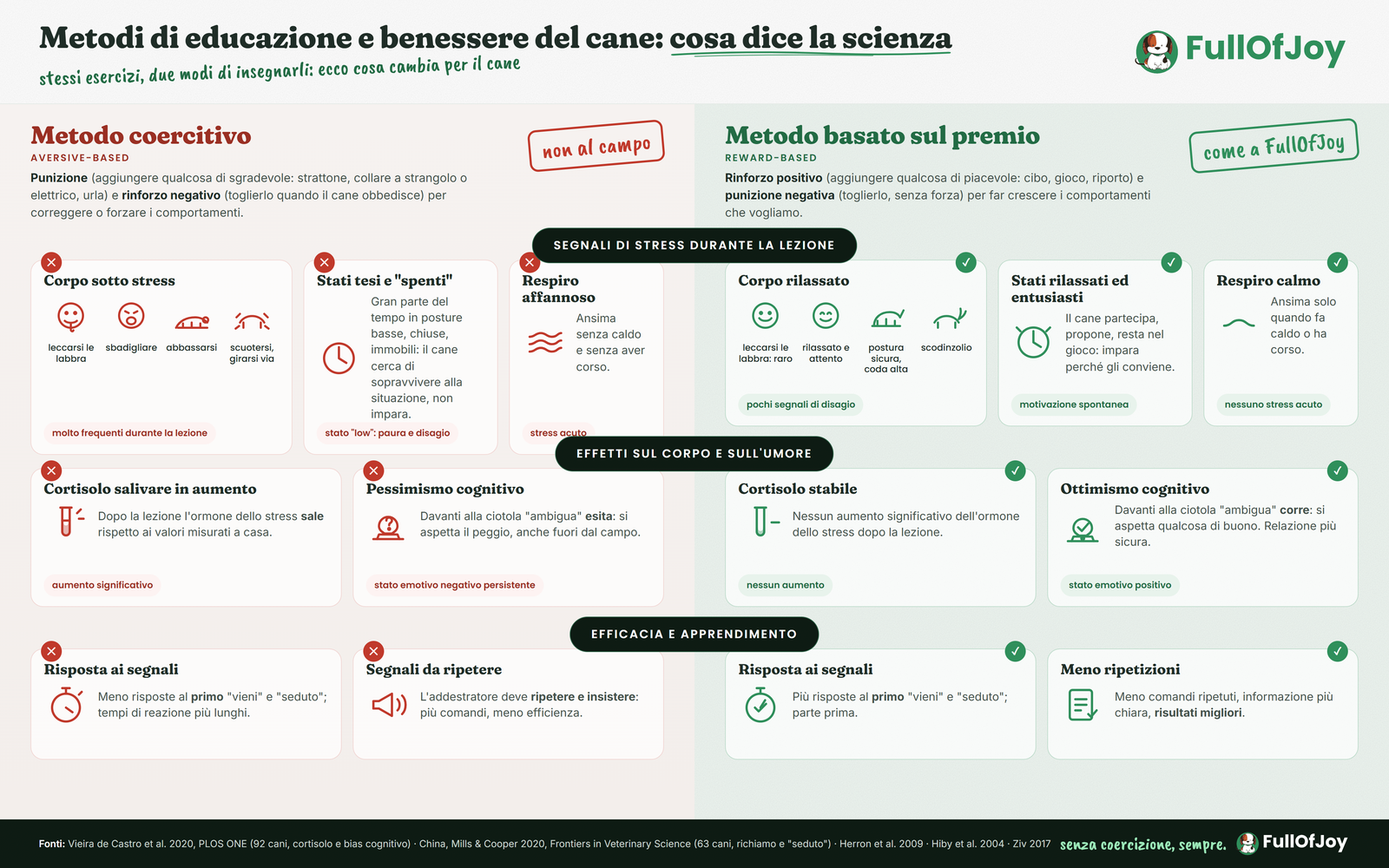
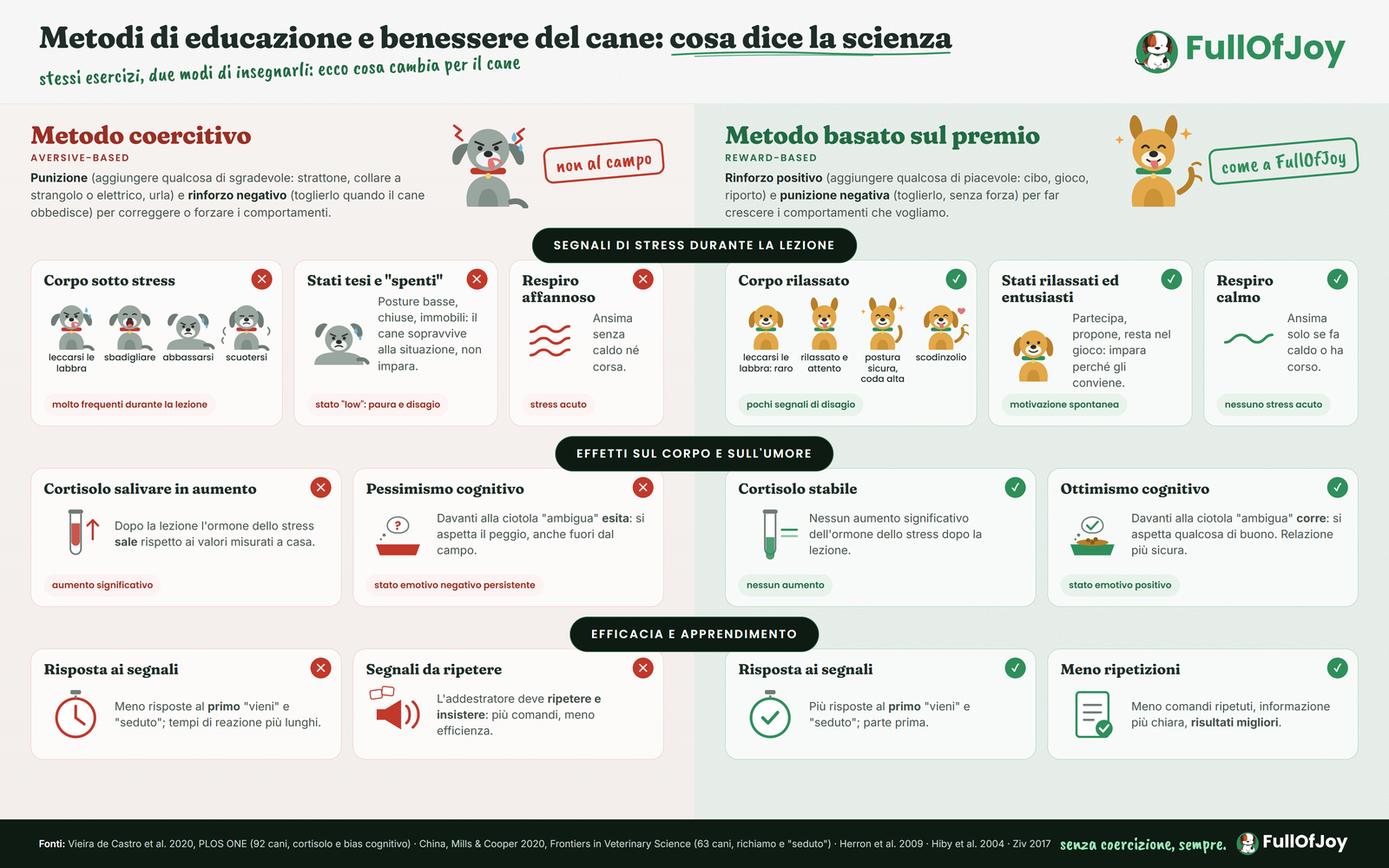
Infografica: personaggi vettoriali (cani) al posto delle icone in linea

diff --git a/_src/infografica/metodi.html b/_src/infografica/metodi.html
@@ -6,7 +6,7 @@
 <title>Infografica: metodi di educazione e benessere del cane</title>
 <link rel="stylesheet" href="../../css/style.css?v=20">
 <style>
-  /* Tavola 2000×1250 (16:10). Si esporta in PNG con puppeteer: vedi scripts nello scratchpad. */
+  /* Tavola 2000×1250 (16:10). Personaggi vettoriali generati da build_infografica_v2.py (scratchpad). Si esporta in PNG con puppeteer: vedi scripts nello scratchpad. */
   html, body { margin: 0; background: #fff; }
   .board { width: 2000px; height: 1250px; overflow: hidden; position: relative; background: var(--bg); color: var(--ink); font-family: var(--font-body); }
   .board * { box-sizing: border-box; }
@@ -22,14 +22,14 @@
   .col--no { background: linear-gradient(180deg, #f6f2f0 0%, #f3eeeb 100%); }
   .col--si { background: var(--grain), #eef6f1; }
 
-  .colhead { display: grid; grid-template-columns: 1fr auto; gap: 18px; align-items: start; min-height: 150px; }
+  .colhead { display: grid; grid-template-columns: 1fr auto; gap: 18px; align-items: start; min-height: 150px; } .colhead p { max-width: 560px; }
   .colhead h2 { margin: 0; font-size: 36px; line-height: 1.05; }
   .colhead h2 small { display: block; font-family: var(--font-head); font-weight: 600; font-size: 14px; letter-spacing: .12em; text-transform: uppercase; margin-top: 6px; }
   .col--no .colhead h2, .col--no .colhead h2 small { color: #9a2f23; }
   .col--si .colhead h2, .col--si .colhead h2 small { color: var(--green-dark); }
   .colhead p { margin: 10px 0 0; font-size: 17px; line-height: 1.45; color: var(--body); max-width: 640px; }
   .colhead p strong { color: var(--ink); }
-  .stamp { font-family: var(--font-hand); font-size: 34px; line-height: 1; transform: rotate(-5deg); padding: 10px 16px; border: 3px solid currentColor; border-radius: 12px; white-space: nowrap; margin-top: 4px; }
+  .stamp { font-family: var(--font-hand); font-size: 30px; line-height: 1; transform: rotate(-5deg); padding: 8px 14px; border: 3px solid currentColor; border-radius: 12px; white-space: nowrap; }
   .col--no .stamp { color: #c0392b; } .col--si .stamp { color: var(--green); }
 
   /* fasce di sezione al centro, sopra entrambe le colonne */
@@ -40,12 +40,12 @@
   .row { position: absolute; left: 44px; right: 44px; }
   .row--1 { top: 224px; height: 240px; } .row--2 { top: 524px; height: 200px; } .row--3 { top: 784px; height: 160px; }
   .cells { display: grid; gap: 16px; height: 100%; }
-  .cells--3 { grid-template-columns: 1.35fr 1fr .8fr; }
+  .cells--3 { grid-template-columns: 1.3fr 1.05fr .8fr; }
   .cells--2 { grid-template-columns: 1fr 1fr; }
-  .cell { background: rgba(255,255,255,.72); border: 1px solid var(--line); border-radius: 18px; padding: 16px 18px 14px; display: flex; flex-direction: column; }
+  .cell { background: rgba(255,255,255,.72); border: 1px solid var(--line); border-radius: 18px; padding: 16px 18px 14px; display: flex; flex-direction: column; overflow: hidden; }
   .col--si .cell { border-color: rgba(47,143,91,.28); }
   .col--no .cell { border-color: rgba(192,57,43,.18); }
-  .cell h3 { margin: 0 0 8px; font-size: 21px; line-height: 1.15; color: var(--ink); }
+  .cell h3 { margin: 0 0 8px; padding-right: 36px; font-size: 21px; line-height: 1.15; color: var(--ink); }
   .cell p { margin: 0; font-size: 16.5px; line-height: 1.4; color: var(--body); }
   .cell .big { font-family: var(--font-display); font-weight: 800; font-size: 30px; line-height: 1; margin: 2px 0 6px; }
   .col--no .big { color: #c0392b; } .col--si .big { color: var(--green); }
@@ -53,14 +53,14 @@
   .col--no .tag { background: #fdf3f2; color: #9a2f23; } .col--si .tag { background: var(--green-soft); color: var(--green-dark); }
 
   /* pittogrammi: righe di segnali */
-  .signs { display: grid; grid-template-columns: repeat(4, 1fr); gap: 8px; margin: 4px 0 8px; }
+  .signs { display: grid; grid-template-columns: repeat(4, 1fr); gap: 4px; margin: 2px 0 8px; }
   .sign { text-align: center; font-family: var(--font-head); font-weight: 500; font-size: 13px; line-height: 1.2; color: var(--ink); }
-  .sign svg { width: 60px; height: 60px; display: block; margin: 0 auto 6px; }
-  .ico { display: flex; align-items: center; gap: 14px; }
-  .ico svg { width: 64px; height: 64px; flex: none; }
-  .col--no svg { color: #c0392b; } .col--si svg { color: var(--green); }
-  .mark { position: absolute; top: -12px; right: 14px; width: 30px; height: 30px; border-radius: 50%; display: grid; place-items: center; font-family: var(--font-head); font-weight: 700; font-size: 15px; color: #fff; }
-  .col--no .mark { background: #c0392b; right: auto; left: 14px; } .col--si .mark { background: var(--green); }
+  .sign svg { width: 80px; height: 80px; display: block; margin: 0 auto 2px; }
+  .ico { display: flex; align-items: center; gap: 10px; }
+  .ico svg { width: 92px; height: 92px; flex: none; }
+  .colart { display: flex; flex-direction: row; align-items: flex-start; gap: 10px; } .colart > svg { width: 140px; height: 140px; margin-top: -16px; } .colart .stamp { margin-top: 30px; }
+  .mark { position: absolute; top: 12px; right: 14px; width: 30px; height: 30px; border-radius: 50%; display: grid; place-items: center; font-family: var(--font-head); font-weight: 700; font-size: 15px; color: #fff; }
+  .col--no .mark { background: #c0392b; } .col--si .mark { background: var(--green); }
   .cell { position: relative; }
 
   .foot { position: absolute; left: 0; right: 0; bottom: 0; height: 70px; background: var(--grain), var(--dark); color: #c9d6cf; display: flex; align-items: center; justify-content: space-between; padding: 0 56px; font-size: 14px; }
@@ -70,7 +70,7 @@
 </style>
 </head>
 <body>
-<div class="board">
+<div class="board"><svg width="0" height="0" style="position:absolute" aria-hidden="true"><symbol id="dog-no-lick" viewBox="0 0 120 120"><path d="M34 40c-12 0-20 10-18 22 1 5 6 6 9 2 4-8 8-16 14-22z" fill="#6f7c76"/><path d="M86 40c12 0 20 10 18 22-1 5-6 6-9 2-4-8-8-16-14-22z" fill="#6f7c76"/><path d="M34 118c-4-22 6-38 26-38s30 16 26 38z" fill="#9aa6a0"/><path d="M48 118c0-14 4-22 12-22s12 8 12 22z" fill="#6f7c76" opacity=".55"/><path d="M88 112c8-2 14 0 18 6" fill="none" stroke="#6f7c76" stroke-width="7" stroke-linecap="round"/><rect x="38" y="70" width="44" height="8" rx="4" fill="#c0392b"/><circle cx="60" cy="80" r="3.5" fill="#f5d36b"/><circle cx="60" cy="48" r="26" fill="#9aa6a0"/><ellipse cx="60" cy="59" rx="15" ry="10" fill="#fff" opacity=".85"/><ellipse cx="60" cy="53" rx="5.5" ry="4" fill="#2b2b2b"/><circle cx="50" cy="46" r="3" fill="#2b2b2b"/><circle cx="70" cy="46" r="3" fill="#2b2b2b"/><path d="M44 38l10 4M76 38l-10 4" stroke="#2b2b2b" stroke-width="2.4" stroke-linecap="round"/><path d="M60 60c-2 8 2 14 6 12 4-2 2-8-1-12z" fill="#e57373"/><path d="M62 60c6-2 12 0 14 4" fill="none" stroke="#e57373" stroke-width="3" stroke-linecap="round"/><path d="M92 26c4 6 4 10 0 12-4-2-4-6 0-12z" fill="#6bb7e8"/><path d="M100 40c3 5 3 8 0 10-3-2-3-5 0-10z" fill="#6bb7e8"/></symbol><symbol id="dog-no-yawn" viewBox="0 0 120 120"><path d="M34 40c-12 0-20 10-18 22 1 5 6 6 9 2 4-8 8-16 14-22z" fill="#6f7c76"/><path d="M86 40c12 0 20 10 18 22-1 5-6 6-9 2-4-8-8-16-14-22z" fill="#6f7c76"/><path d="M34 118c-4-22 6-38 26-38s30 16 26 38z" fill="#9aa6a0"/><path d="M48 118c0-14 4-22 12-22s12 8 12 22z" fill="#6f7c76" opacity=".55"/><path d="M88 112c8-2 14 0 18 6" fill="none" stroke="#6f7c76" stroke-width="7" stroke-linecap="round"/><rect x="38" y="70" width="44" height="8" rx="4" fill="#c0392b"/><circle cx="60" cy="80" r="3.5" fill="#f5d36b"/><circle cx="60" cy="48" r="26" fill="#9aa6a0"/><ellipse cx="60" cy="59" rx="15" ry="10" fill="#fff" opacity=".85"/><ellipse cx="60" cy="53" rx="5.5" ry="4" fill="#2b2b2b"/><path d="M46 42q4-3 8 0M66 42q4-3 8 0" fill="none" stroke="#2b2b2b" stroke-width="2.6" stroke-linecap="round"/><ellipse cx="60" cy="61" rx="8" ry="9" fill="#5a2a2a"/><ellipse cx="60" cy="66" rx="5" ry="3.5" fill="#e57373"/></symbol><symbol id="dog-no-crouch" viewBox="0 0 120 120"><path d="M34 40c-12 0-20 10-18 22 1 5 6 6 9 2 4-8 8-16 14-22z" fill="#6f7c76"/><path d="M86 40c12 0 20 10 18 22-1 5-6 6-9 2-4-8-8-16-14-22z" fill="#6f7c76"/><path d="M14 118c0-16 12-24 46-24s46 8 46 24z" fill="#9aa6a0"/><path d="M96 108c8-2 14 0 18 6" fill="none" stroke="#6f7c76" stroke-width="7" stroke-linecap="round"/><circle cx="60" cy="70" r="26" fill="#9aa6a0"/><ellipse cx="60" cy="81" rx="15" ry="10" fill="#fff" opacity=".85"/><ellipse cx="60" cy="75" rx="5.5" ry="4" fill="#2b2b2b"/><circle cx="50" cy="68" r="3" fill="#2b2b2b"/><circle cx="70" cy="68" r="3" fill="#2b2b2b"/><path d="M44 60l10 4M76 60l-10 4" stroke="#2b2b2b" stroke-width="2.4" stroke-linecap="round"/><path d="M53 84q7-4 14 0" fill="none" stroke="#2b2b2b" stroke-width="2.2" stroke-linecap="round"/><path d="M92 48c4 6 4 10 0 12-4-2-4-6 0-12z" fill="#6bb7e8"/><path d="M100 62c3 5 3 8 0 10-3-2-3-5 0-10z" fill="#6bb7e8"/></symbol><symbol id="dog-no-shake" viewBox="0 0 120 120"><path d="M14 70q-8 8 0 16M106 70q8 8 0 16M10 92q-6 6 0 12" fill="none" stroke="#6f7c76" stroke-width="3" stroke-linecap="round"/><path d="M36 34c-10 4-16 18-12 32 2 6 8 6 10 0 3-10 6-20 12-28z" fill="#6f7c76"/><path d="M84 34c10 4 16 18 12 32-2 6-8 6-10 0-3-10-6-20-12-28z" fill="#6f7c76"/><path d="M34 118c-4-22 6-38 26-38s30 16 26 38z" fill="#9aa6a0"/><path d="M48 118c0-14 4-22 12-22s12 8 12 22z" fill="#6f7c76" opacity=".55"/><path d="M88 112c8-2 14 0 18 6" fill="none" stroke="#6f7c76" stroke-width="7" stroke-linecap="round"/><rect x="38" y="70" width="44" height="8" rx="4" fill="#c0392b"/><circle cx="60" cy="80" r="3.5" fill="#f5d36b"/><circle cx="60" cy="48" r="26" fill="#9aa6a0"/><ellipse cx="60" cy="59" rx="15" ry="10" fill="#fff" opacity=".85"/><ellipse cx="60" cy="53" rx="5.5" ry="4" fill="#2b2b2b"/><path d="M46 45l8 0M66 45l8 0" stroke="#2b2b2b" stroke-width="2.8" stroke-linecap="round"/><path d="M53 62q7-4 14 0" fill="none" stroke="#2b2b2b" stroke-width="2.2" stroke-linecap="round"/></symbol><symbol id="dog-no-low" viewBox="0 0 120 120"><path d="M34 40c-12 0-20 10-18 22 1 5 6 6 9 2 4-8 8-16 14-22z" fill="#6f7c76"/><path d="M86 40c12 0 20 10 18 22-1 5-6 6-9 2-4-8-8-16-14-22z" fill="#6f7c76"/><path d="M14 118c0-16 12-24 46-24s46 8 46 24z" fill="#9aa6a0"/><path d="M96 108c8-2 14 0 18 6" fill="none" stroke="#6f7c76" stroke-width="7" stroke-linecap="round"/><circle cx="60" cy="70" r="26" fill="#9aa6a0"/><ellipse cx="60" cy="81" rx="15" ry="10" fill="#fff" opacity=".85"/><ellipse cx="60" cy="75" rx="5.5" ry="4" fill="#2b2b2b"/><circle cx="50" cy="68" r="3" fill="#2b2b2b"/><circle cx="70" cy="68" r="3" fill="#2b2b2b"/><path d="M44 60l10 4M76 60l-10 4" stroke="#2b2b2b" stroke-width="2.4" stroke-linecap="round"/><path d="M53 84q7-4 14 0" fill="none" stroke="#2b2b2b" stroke-width="2.2" stroke-linecap="round"/><path d="M92 48c4 6 4 10 0 12-4-2-4-6 0-12z" fill="#6bb7e8"/><path d="M100 62c3 5 3 8 0 10-3-2-3-5 0-10z" fill="#6bb7e8"/></symbol><symbol id="dog-no-hero" viewBox="0 0 120 120"><path d="M18 18l8 6-6 6 8 6" fill="none" stroke="#c0392b" stroke-width="3" stroke-linecap="round" stroke-linejoin="round"/><path d="M104 22l-8 6 6 6-8 6" fill="none" stroke="#c0392b" stroke-width="3" stroke-linecap="round" stroke-linejoin="round"/><path d="M34 40c-12 0-20 10-18 22 1 5 6 6 9 2 4-8 8-16 14-22z" fill="#6f7c76"/><path d="M86 40c12 0 20 10 18 22-1 5-6 6-9 2-4-8-8-16-14-22z" fill="#6f7c76"/><path d="M34 118c-4-22 6-38 26-38s30 16 26 38z" fill="#9aa6a0"/><path d="M48 118c0-14 4-22 12-22s12 8 12 22z" fill="#6f7c76" opacity=".55"/><path d="M88 112c8-2 14 0 18 6" fill="none" stroke="#6f7c76" stroke-width="7" stroke-linecap="round"/><rect x="38" y="70" width="44" height="8" rx="4" fill="#c0392b"/><circle cx="60" cy="80" r="3.5" fill="#f5d36b"/><circle cx="60" cy="48" r="26" fill="#9aa6a0"/><ellipse cx="60" cy="59" rx="15" ry="10" fill="#fff" opacity=".85"/><ellipse cx="60" cy="53" rx="5.5" ry="4" fill="#2b2b2b"/><circle cx="50" cy="46" r="3" fill="#2b2b2b"/><circle cx="70" cy="46" r="3" fill="#2b2b2b"/><path d="M44 38l10 4M76 38l-10 4" stroke="#2b2b2b" stroke-width="2.4" stroke-linecap="round"/><path d="M60 60c-2 8 2 14 6 12 4-2 2-8-1-12z" fill="#e57373"/><path d="M62 60c6-2 12 0 14 4" fill="none" stroke="#e57373" stroke-width="3" stroke-linecap="round"/><path d="M92 26c4 6 4 10 0 12-4-2-4-6 0-12z" fill="#6bb7e8"/><path d="M100 40c3 5 3 8 0 10-3-2-3-5 0-10z" fill="#6bb7e8"/></symbol><symbol id="dog-si-calm" viewBox="0 0 120 120"><path d="M36 34c-10 4-16 18-12 32 2 6 8 6 10 0 3-10 6-20 12-28z" fill="#b7802a"/><path d="M84 34c10 4 16 18 12 32-2 6-8 6-10 0-3-10-6-20-12-28z" fill="#b7802a"/><path d="M34 118c-4-22 6-38 26-38s30 16 26 38z" fill="#e2a84a"/><path d="M48 118c0-14 4-22 12-22s12 8 12 22z" fill="#b7802a" opacity=".55"/><rect x="38" y="70" width="44" height="8" rx="4" fill="#2f8f5b"/><circle cx="60" cy="80" r="3.5" fill="#f5d36b"/><circle cx="60" cy="48" r="26" fill="#e2a84a"/><ellipse cx="60" cy="59" rx="15" ry="10" fill="#fff" opacity=".85"/><ellipse cx="60" cy="53" rx="5.5" ry="4" fill="#2b2b2b"/><circle cx="50" cy="45" r="2.8" fill="#2b2b2b"/><circle cx="70" cy="45" r="2.8" fill="#2b2b2b"/><path d="M52 60q8 6 16 0" fill="none" stroke="#2b2b2b" stroke-width="2.2" stroke-linecap="round"/></symbol><symbol id="dog-si-attentive" viewBox="0 0 120 120"><path d="M38 36c-8-8-10-22-4-30 4-4 10 4 12 14 1 6 0 12-2 16z" fill="#b7802a"/><path d="M82 36c8-8 10-22 4-30-4-4-10 4-12 14-1 6 0 12 2 16z" fill="#b7802a"/><path d="M34 118c-4-22 6-38 26-38s30 16 26 38z" fill="#e2a84a"/><path d="M48 118c0-14 4-22 12-22s12 8 12 22z" fill="#b7802a" opacity=".55"/><rect x="38" y="70" width="44" height="8" rx="4" fill="#2f8f5b"/><circle cx="60" cy="80" r="3.5" fill="#f5d36b"/><circle cx="60" cy="48" r="26" fill="#e2a84a"/><ellipse cx="60" cy="59" rx="15" ry="10" fill="#fff" opacity=".85"/><ellipse cx="60" cy="53" rx="5.5" ry="4" fill="#2b2b2b"/><circle cx="50" cy="45" r="2.8" fill="#2b2b2b"/><circle cx="70" cy="45" r="2.8" fill="#2b2b2b"/><path d="M52 60q8 6 16 0" fill="none" stroke="#2b2b2b" stroke-width="2.2" stroke-linecap="round"/><path d="M56 61c0 8 4 12 8 10 3-2 2-8 0-10z" fill="#e57373"/></symbol><symbol id="dog-si-proud" viewBox="0 0 120 120"><path d="M38 36c-8-8-10-22-4-30 4-4 10 4 12 14 1 6 0 12-2 16z" fill="#b7802a"/><path d="M82 36c8-8 10-22 4-30-4-4-10 4-12 14-1 6 0 12 2 16z" fill="#b7802a"/><path d="M34 118c-4-22 6-38 26-38s30 16 26 38z" fill="#e2a84a"/><path d="M48 118c0-14 4-22 12-22s12 8 12 22z" fill="#b7802a" opacity=".55"/><path d="M90 100c10-8 12-20 6-32" fill="none" stroke="#b7802a" stroke-width="7" stroke-linecap="round"/><rect x="38" y="70" width="44" height="8" rx="4" fill="#2f8f5b"/><circle cx="60" cy="80" r="3.5" fill="#f5d36b"/><circle cx="60" cy="48" r="26" fill="#e2a84a"/><ellipse cx="60" cy="59" rx="15" ry="10" fill="#fff" opacity=".85"/><ellipse cx="60" cy="53" rx="5.5" ry="4" fill="#2b2b2b"/><path d="M46 45q4-5 8 0M66 45q4-5 8 0" fill="none" stroke="#2b2b2b" stroke-width="2.6" stroke-linecap="round"/><path d="M52 60q8 6 16 0" fill="none" stroke="#2b2b2b" stroke-width="2.2" stroke-linecap="round"/><path d="M100 20l2 6 6 2-6 2-2 6-2-6-6-2 6-2zM18 30l1.5 4 4 1.5-4 1.5-1.5 4-1.5-4-4-1.5 4-1.5z" fill="#f0a23b"/></symbol><symbol id="dog-si-wag" viewBox="0 0 120 120"><path d="M36 34c-10 4-16 18-12 32 2 6 8 6 10 0 3-10 6-20 12-28z" fill="#b7802a"/><path d="M84 34c10 4 16 18 12 32-2 6-8 6-10 0-3-10-6-20-12-28z" fill="#b7802a"/><path d="M34 118c-4-22 6-38 26-38s30 16 26 38z" fill="#e2a84a"/><path d="M48 118c0-14 4-22 12-22s12 8 12 22z" fill="#b7802a" opacity=".55"/><path d="M92 100c12-6 18-16 14-28" fill="none" stroke="#b7802a" stroke-width="7" stroke-linecap="round"/><path d="M108 66q6-4 10 0M110 80q8 0 10 6" fill="none" stroke="#b7802a" stroke-width="3" stroke-linecap="round"/><rect x="38" y="70" width="44" height="8" rx="4" fill="#2f8f5b"/><circle cx="60" cy="80" r="3.5" fill="#f5d36b"/><circle cx="60" cy="48" r="26" fill="#e2a84a"/><ellipse cx="60" cy="59" rx="15" ry="10" fill="#fff" opacity=".85"/><ellipse cx="60" cy="53" rx="5.5" ry="4" fill="#2b2b2b"/><path d="M46 45q4-5 8 0M66 45q4-5 8 0" fill="none" stroke="#2b2b2b" stroke-width="2.6" stroke-linecap="round"/><path d="M52 60q8 6 16 0" fill="none" stroke="#2b2b2b" stroke-width="2.2" stroke-linecap="round"/><path d="M56 61c0 8 4 12 8 10 3-2 2-8 0-10z" fill="#e57373"/><path d="M104 30c-3-5-10-2-8 4 1 3 5 6 8 8 3-2 7-5 8-8 2-6-5-9-8-4z" fill="#e57373"/></symbol><symbol id="dog-si-hero" viewBox="0 0 120 120"><path d="M38 36c-8-8-10-22-4-30 4-4 10 4 12 14 1 6 0 12-2 16z" fill="#b7802a"/><path d="M82 36c8-8 10-22 4-30-4-4-10 4-12 14-1 6 0 12 2 16z" fill="#b7802a"/><path d="M34 118c-4-22 6-38 26-38s30 16 26 38z" fill="#e2a84a"/><path d="M48 118c0-14 4-22 12-22s12 8 12 22z" fill="#b7802a" opacity=".55"/><path d="M92 100c12-6 18-16 14-28" fill="none" stroke="#b7802a" stroke-width="7" stroke-linecap="round"/><path d="M108 66q6-4 10 0M110 80q8 0 10 6" fill="none" stroke="#b7802a" stroke-width="3" stroke-linecap="round"/><rect x="38" y="70" width="44" height="8" rx="4" fill="#2f8f5b"/><circle cx="60" cy="80" r="3.5" fill="#f5d36b"/><circle cx="60" cy="48" r="26" fill="#e2a84a"/><ellipse cx="60" cy="59" rx="15" ry="10" fill="#fff" opacity=".85"/><ellipse cx="60" cy="53" rx="5.5" ry="4" fill="#2b2b2b"/><path d="M46 45q4-5 8 0M66 45q4-5 8 0" fill="none" stroke="#2b2b2b" stroke-width="2.6" stroke-linecap="round"/><path d="M52 60q8 6 16 0" fill="none" stroke="#2b2b2b" stroke-width="2.2" stroke-linecap="round"/><path d="M56 61c0 8 4 12 8 10 3-2 2-8 0-10z" fill="#e57373"/><path d="M100 20l2 6 6 2-6 2-2 6-2-6-6-2 6-2zM18 30l1.5 4 4 1.5-4 1.5-1.5 4-1.5-4-4-1.5 4-1.5z" fill="#f0a23b"/></symbol><symbol id="tube-no" viewBox="0 0 120 120"><rect x="46" y="14" width="28" height="8" rx="4" fill="#6f7c76"/><path d="M50 22v66a10 10 0 0 0 20 0V22" fill="#fff" stroke="#6f7c76" stroke-width="3"/><path d="M52 40h16v34a8 8 0 0 1-16 0z" fill="#c0392b" opacity=".85"/><path d="M92 70V34M82 44l10-10 10 10" fill="none" stroke="#c0392b" stroke-width="4" stroke-linecap="round" stroke-linejoin="round"/></symbol><symbol id="tube-si" viewBox="0 0 120 120"><rect x="46" y="14" width="28" height="8" rx="4" fill="#6f7c76"/><path d="M50 22v66a10 10 0 0 0 20 0V22" fill="#fff" stroke="#6f7c76" stroke-width="3"/><path d="M52 66h16v34a8 8 0 0 1-16 0z" fill="#2f8f5b" opacity=".85"/><path d="M82 52h28" fill="none" stroke="#2f8f5b" stroke-width="4" stroke-linecap="round"/><path d="M82 64h28" fill="none" stroke="#2f8f5b" stroke-width="4" stroke-linecap="round" opacity=".5"/></symbol><symbol id="bowl-no" viewBox="0 0 120 120"><path d="M18 78h84l-8 22H26z" fill="#c0392b"/><path d="M18 78h84" stroke="#fff" stroke-width="3"/><path d="M40 44a20 16 0 1 1 40 0c0 8-6 12-14 14h-12c-8-2-14-6-14-14z" fill="#fff" stroke="#6f7c76" stroke-width="2.5"/><circle cx="34" cy="62" r="3" fill="#6f7c76"/><circle cx="28" cy="70" r="2" fill="#6f7c76"/><text x="60" y="52" text-anchor="middle" font-family="Poppins, sans-serif" font-weight="700" font-size="22" fill="#c0392b">?</text></symbol><symbol id="bowl-si" viewBox="0 0 120 120"><path d="M18 78h84l-8 22H26z" fill="#2f8f5b"/><path d="M18 78h84" stroke="#fff" stroke-width="3"/><ellipse cx="60" cy="76" rx="30" ry="6" fill="#b7802a"/><circle cx="52" cy="72" r="4" fill="#8a5a1a"/><circle cx="66" cy="70" r="4" fill="#8a5a1a"/><circle cx="60" cy="76" r="4" fill="#8a5a1a"/><path d="M40 44a20 16 0 1 1 40 0c0 8-6 12-14 14h-12c-8-2-14-6-14-14z" fill="#fff" stroke="#6f7c76" stroke-width="2.5"/><circle cx="34" cy="62" r="3" fill="#6f7c76"/><circle cx="28" cy="70" r="2" fill="#6f7c76"/><path d="M50 44l7 7 13-14" fill="none" stroke="#2f8f5b" stroke-width="4" stroke-linecap="round" stroke-linejoin="round"/></symbol><symbol id="clock-no" viewBox="0 0 120 120"><circle cx="60" cy="66" r="36" fill="#fff" stroke="#c0392b" stroke-width="5"/><rect x="50" y="14" width="20" height="8" rx="3" fill="#6f7c76"/><path d="M60 24v6" stroke="#6f7c76" stroke-width="4"/><path d="M60 66l16 12" stroke="#c0392b" stroke-width="5" stroke-linecap="round"/><path d="M60 66V44" stroke="#c0392b" stroke-width="5" stroke-linecap="round"/></symbol><symbol id="clock-si" viewBox="0 0 120 120"><circle cx="60" cy="66" r="36" fill="#fff" stroke="#2f8f5b" stroke-width="5"/><rect x="50" y="14" width="20" height="8" rx="3" fill="#6f7c76"/><path d="M60 24v6" stroke="#6f7c76" stroke-width="4"/><path d="M46 66l10 10 18-20" fill="none" stroke="#2f8f5b" stroke-width="6" stroke-linecap="round" stroke-linejoin="round"/></symbol><symbol id="mega" viewBox="0 0 120 120"><path d="M20 50v20h16l30 18V32L36 50z" fill="#c0392b"/><path d="M76 44c8 6 8 26 0 32M88 36c14 12 14 36 0 48" fill="none" stroke="#c0392b" stroke-width="5" stroke-linecap="round"/><g fill="#fff" stroke="#c0392b" stroke-width="2"><rect x="8" y="14" width="22" height="16" rx="3" transform="rotate(-8 19 22)"/><rect x="30" y="8" width="22" height="16" rx="3" transform="rotate(6 41 16)"/></g></symbol><symbol id="sheet" viewBox="0 0 120 120"><rect x="30" y="18" width="60" height="84" rx="6" fill="#fff" stroke="#2f8f5b" stroke-width="4"/><path d="M44 42h32M44 56h32M44 70h18" stroke="#6f7c76" stroke-width="4" stroke-linecap="round"/><circle cx="82" cy="86" r="16" fill="#2f8f5b"/><path d="M74 86l6 6 10-12" fill="none" stroke="#fff" stroke-width="4" stroke-linecap="round" stroke-linejoin="round"/></symbol><symbol id="breath-no" viewBox="0 0 120 120"><path d="M16 40c12 0 12-10 24-10s12 10 24 10 12-10 24-10M16 62c12 0 12-10 24-10s12 10 24 10 12-10 24-10M16 84c12 0 12-10 24-10s12 10 24 10 12-10 24-10" fill="none" stroke="#c0392b" stroke-width="5" stroke-linecap="round"/></symbol><symbol id="breath-si" viewBox="0 0 120 120"><path d="M16 60c14 0 14-14 30-14s16 14 30 14 14-14 28-14" fill="none" stroke="#2f8f5b" stroke-width="5" stroke-linecap="round"/></symbol></svg>
   <div class="top">
     <div>
       <h1>Metodi di educazione e benessere del cane: <span class="u">cosa dice la scienza</span></h1>
@@ -87,30 +87,30 @@
           <h2>Metodo coercitivo<small>aversive-based</small></h2>
           <p><strong>Punizione</strong> (aggiungere qualcosa di sgradevole: strattone, collare a strangolo o elettrico, urla) e <strong>rinforzo negativo</strong> (toglierlo quando il cane obbedisce) per correggere o forzare i comportamenti.</p>
         </div>
-        <div class="stamp">non al campo</div>
+        <div class="colart"><svg class=""><use href="#dog-no-hero"/></svg><div class="stamp">non al campo</div></div>
       </div>
 
       <div class="row row--1"><div class="cells cells--3">
         <div class="cell"><span class="mark">✕</span><h3>Corpo sotto stress</h3>
           <div class="signs">
-            <div class="sign"><svg viewBox="0 0 48 48" fill="none" stroke="currentColor" stroke-width="2.4" stroke-linecap="round" stroke-linejoin="round"><circle cx="24" cy="22" r="14"/><path d="M17 28c3 3 11 3 14 0"/><path d="M24 31v7c0 2 2 3 3 1"/><circle cx="19" cy="19" r="1.2" fill="currentColor"/><circle cx="29" cy="19" r="1.2" fill="currentColor"/></svg>leccarsi le labbra</div>
-            <div class="sign"><svg viewBox="0 0 48 48" fill="none" stroke="currentColor" stroke-width="2.4" stroke-linecap="round" stroke-linejoin="round"><circle cx="24" cy="22" r="14"/><ellipse cx="24" cy="28" rx="5" ry="4"/><path d="M17 17l4 2M31 17l-4 2"/></svg>sbadigliare</div>
-            <div class="sign"><svg viewBox="0 0 48 48" fill="none" stroke="currentColor" stroke-width="2.4" stroke-linecap="round" stroke-linejoin="round"><path d="M6 36c4-8 12-12 22-12 6 0 10 2 14 6"/><path d="M8 36h34"/><path d="M14 36v-5M24 36v-6M34 36v-5"/><circle cx="40" cy="27" r="3"/></svg>abbassarsi</div>
-            <div class="sign"><svg viewBox="0 0 48 48" fill="none" stroke="currentColor" stroke-width="2.4" stroke-linecap="round" stroke-linejoin="round"><path d="M10 30c6-10 22-10 28 0"/><path d="M6 24l4-4M42 24l-4-4M9 34l-4 3M39 34l4 3"/><path d="M14 30v6M34 30v6"/></svg>scuotersi, girarsi via</div>
+            <div class="sign"><svg class=""><use href="#dog-no-lick"/></svg>leccarsi le labbra</div>
+            <div class="sign"><svg class=""><use href="#dog-no-yawn"/></svg>sbadigliare</div>
+            <div class="sign"><svg class=""><use href="#dog-no-crouch"/></svg>abbassarsi</div>
+            <div class="sign"><svg class=""><use href="#dog-no-shake"/></svg>scuotersi</div>
           </div>
           <span class="tag">molto frequenti durante la lezione</span></div>
-        <div class="cell"><span class="mark">✕</span><h3>Stati tesi e "spenti"</h3><div class="ico"><svg viewBox="0 0 48 48" fill="none" stroke="currentColor" stroke-width="2.4" stroke-linecap="round" stroke-linejoin="round"><circle cx="24" cy="24" r="16"/><path d="M24 12v12l8 5"/></svg><p>Gran parte del tempo in posture basse, chiuse, immobili: il cane cerca di sopravvivere alla situazione, non impara.</p></div><span class="tag">stato "low": paura e disagio</span></div>
-        <div class="cell"><span class="mark">✕</span><h3>Respiro affannoso</h3><div class="ico"><svg viewBox="0 0 48 48" fill="none" stroke="currentColor" stroke-width="2.4" stroke-linecap="round"><path d="M8 18c6 0 6-4 12-4s6 4 12 4 6-4 10-4"/><path d="M8 26c6 0 6-4 12-4s6 4 12 4 6-4 10-4"/><path d="M8 34c6 0 6-4 12-4s6 4 12 4 6-4 10-4"/></svg><p>Ansima senza caldo e senza aver corso.</p></div><span class="tag">stress acuto</span></div>
+        <div class="cell"><span class="mark">✕</span><h3>Stati tesi e "spenti"</h3><div class="ico"><svg class=""><use href="#dog-no-low"/></svg><p>Posture basse, chiuse, immobili: il cane sopravvive alla situazione, non impara.</p></div><span class="tag">stato "low": paura e disagio</span></div>
+        <div class="cell"><span class="mark">✕</span><h3>Respiro affannoso</h3><div class="ico"><svg class=""><use href="#breath-no"/></svg><p>Ansima senza caldo né corsa.</p></div><span class="tag">stress acuto</span></div>
       </div></div>
 
       <div class="row row--2"><div class="cells cells--2">
-        <div class="cell"><span class="mark">✕</span><h3>Cortisolo salivare in aumento</h3><div class="ico"><svg viewBox="0 0 48 48" fill="none" stroke="currentColor" stroke-width="2.4" stroke-linecap="round" stroke-linejoin="round"><path d="M18 6h12M20 6v26a4 4 0 0 0 8 0V6"/><path d="M20 20h8" /><path d="M20 22c0 6 8 6 8 0v10a4 4 0 0 1-8 0z" fill="currentColor" opacity=".35"/><path d="M36 12l4-4M38 18h5"/></svg><p>Dopo la lezione l'ormone dello stress <strong>sale</strong> rispetto ai valori misurati a casa.</p></div><span class="tag">aumento significativo</span></div>
-        <div class="cell"><span class="mark">✕</span><h3>Pessimismo cognitivo</h3><div class="ico"><svg viewBox="0 0 48 48" fill="none" stroke="currentColor" stroke-width="2.4" stroke-linecap="round" stroke-linejoin="round"><path d="M14 26a10 10 0 1 1 20 0c0 4-3 6-6 8H20c-3-2-6-4-6-8z"/><path d="M22 20a3 3 0 1 1 5 2c-1 1-2 1-2 3"/><circle cx="25" cy="29" r="1" fill="currentColor"/><path d="M8 40h32M12 40l2-5h20l2 5"/></svg><p>Davanti alla ciotola "ambigua" <strong>esita</strong>: si aspetta il peggio, anche fuori dal campo.</p></div><span class="tag">stato emotivo negativo persistente</span></div>
+        <div class="cell"><span class="mark">✕</span><h3>Cortisolo salivare in aumento</h3><div class="ico"><svg class=""><use href="#tube-no"/></svg><p>Dopo la lezione l'ormone dello stress <strong>sale</strong> rispetto ai valori misurati a casa.</p></div><span class="tag">aumento significativo</span></div>
+        <div class="cell"><span class="mark">✕</span><h3>Pessimismo cognitivo</h3><div class="ico"><svg class=""><use href="#bowl-no"/></svg><p>Davanti alla ciotola "ambigua" <strong>esita</strong>: si aspetta il peggio, anche fuori dal campo.</p></div><span class="tag">stato emotivo negativo persistente</span></div>
       </div></div>
 
       <div class="row row--3"><div class="cells cells--2">
-        <div class="cell"><span class="mark">✕</span><h3>Risposta ai segnali</h3><div class="ico"><svg viewBox="0 0 48 48" fill="none" stroke="currentColor" stroke-width="2.4" stroke-linecap="round" stroke-linejoin="round"><circle cx="24" cy="27" r="15"/><path d="M24 27l7 5M20 6h8M24 6v6M38 13l3-3"/></svg><p>Meno risposte al <strong>primo</strong> "vieni" e "seduto"; tempi di reazione più lunghi.</p></div></div>
-        <div class="cell"><span class="mark">✕</span><h3>Segnali da ripetere</h3><div class="ico"><svg viewBox="0 0 48 48" fill="none" stroke="currentColor" stroke-width="2.4" stroke-linecap="round" stroke-linejoin="round"><path d="M8 20v8h6l14 8V12L14 20z"/><path d="M34 18c3 3 3 9 0 12M39 14c5 5 5 15 0 20"/></svg><p>L'addestratore deve <strong>ripetere e insistere</strong>: più comandi, meno efficienza.</p></div></div>
+        <div class="cell"><span class="mark">✕</span><h3>Risposta ai segnali</h3><div class="ico"><svg class=""><use href="#clock-no"/></svg><p>Meno risposte al <strong>primo</strong> "vieni" e "seduto"; tempi di reazione più lunghi.</p></div></div>
+        <div class="cell"><span class="mark">✕</span><h3>Segnali da ripetere</h3><div class="ico"><svg class=""><use href="#mega"/></svg><p>L'addestratore deve <strong>ripetere e insistere</strong>: più comandi, meno efficienza.</p></div></div>
       </div></div>
     </div>
 
@@ -121,30 +121,30 @@
           <h2>Metodo basato sul premio<small>reward-based</small></h2>
           <p><strong>Rinforzo positivo</strong> (aggiungere qualcosa di piacevole: cibo, gioco, riporto) e <strong>punizione negativa</strong> (toglierlo, senza forza) per far crescere i comportamenti che vogliamo.</p>
         </div>
-        <div class="stamp">come a FullOfJoy</div>
+        <div class="colart"><svg class=""><use href="#dog-si-hero"/></svg><div class="stamp">come a FullOfJoy</div></div>
       </div>
 
       <div class="row row--1"><div class="cells cells--3">
         <div class="cell"><span class="mark">✓</span><h3>Corpo rilassato</h3>
           <div class="signs">
-            <div class="sign"><svg viewBox="0 0 48 48" fill="none" stroke="currentColor" stroke-width="2.4" stroke-linecap="round" stroke-linejoin="round"><circle cx="24" cy="22" r="14"/><path d="M17 25c3 4 11 4 14 0"/><circle cx="19" cy="19" r="1.2" fill="currentColor"/><circle cx="29" cy="19" r="1.2" fill="currentColor"/></svg>leccarsi le labbra: raro</div>
-            <div class="sign"><svg viewBox="0 0 48 48" fill="none" stroke="currentColor" stroke-width="2.4" stroke-linecap="round" stroke-linejoin="round"><circle cx="24" cy="22" r="14"/><path d="M18 20c1-2 3-2 4 0M26 20c1-2 3-2 4 0"/><path d="M18 26c3 3 9 3 12 0"/></svg>rilassato e attento</div>
-            <div class="sign"><svg viewBox="0 0 48 48" fill="none" stroke="currentColor" stroke-width="2.4" stroke-linecap="round" stroke-linejoin="round"><path d="M10 34c0-10 8-16 18-16 6 0 10 2 12 6"/><path d="M8 34h32"/><path d="M14 34v-6M24 34v-8M34 34v-6"/><path d="M40 24l4-8"/></svg>postura sicura, coda alta</div>
-            <div class="sign"><svg viewBox="0 0 48 48" fill="none" stroke="currentColor" stroke-width="2.4" stroke-linecap="round" stroke-linejoin="round"><path d="M10 30c6-10 22-10 28 0"/><path d="M38 26c2-4 3-8 2-12M38 26c4-2 7-5 8-9"/><path d="M14 30v6M34 30v6"/></svg>scodinzolio</div>
+            <div class="sign"><svg class=""><use href="#dog-si-calm"/></svg>leccarsi le labbra: raro</div>
+            <div class="sign"><svg class=""><use href="#dog-si-attentive"/></svg>rilassato e attento</div>
+            <div class="sign"><svg class=""><use href="#dog-si-proud"/></svg>postura sicura, coda alta</div>
+            <div class="sign"><svg class=""><use href="#dog-si-wag"/></svg>scodinzolio</div>
           </div>
           <span class="tag">pochi segnali di disagio</span></div>
-        <div class="cell"><span class="mark">✓</span><h3>Stati rilassati ed entusiasti</h3><div class="ico"><svg viewBox="0 0 48 48" fill="none" stroke="currentColor" stroke-width="2.4" stroke-linecap="round" stroke-linejoin="round"><circle cx="24" cy="24" r="16"/><path d="M24 12v12l8 5"/><path d="M6 8l4 4M42 8l-4 4"/></svg><p>Il cane partecipa, propone, resta nel gioco: impara perché gli conviene.</p></div><span class="tag">motivazione spontanea</span></div>
-        <div class="cell"><span class="mark">✓</span><h3>Respiro calmo</h3><div class="ico"><svg viewBox="0 0 48 48" fill="none" stroke="currentColor" stroke-width="2.4" stroke-linecap="round"><path d="M8 24c8 0 8-6 16-6s8 6 16 6"/></svg><p>Ansima solo quando fa caldo o ha corso.</p></div><span class="tag">nessuno stress acuto</span></div>
+        <div class="cell"><span class="mark">✓</span><h3>Stati rilassati ed entusiasti</h3><div class="ico"><svg class=""><use href="#dog-si-calm"/></svg><p>Partecipa, propone, resta nel gioco: impara perché gli conviene.</p></div><span class="tag">motivazione spontanea</span></div>
+        <div class="cell"><span class="mark">✓</span><h3>Respiro calmo</h3><div class="ico"><svg class=""><use href="#breath-si"/></svg><p>Ansima solo se fa caldo o ha corso.</p></div><span class="tag">nessuno stress acuto</span></div>
       </div></div>
 
       <div class="row row--2"><div class="cells cells--2">
-        <div class="cell"><span class="mark">✓</span><h3>Cortisolo stabile</h3><div class="ico"><svg viewBox="0 0 48 48" fill="none" stroke="currentColor" stroke-width="2.4" stroke-linecap="round" stroke-linejoin="round"><path d="M18 6h12M20 6v26a4 4 0 0 0 8 0V6"/><path d="M20 28c0 6 8 6 8 0v4a4 4 0 0 1-8 0z" fill="currentColor" opacity=".35"/><path d="M36 22h8"/></svg><p>Nessun aumento significativo dell'ormone dello stress dopo la lezione.</p></div><span class="tag">nessun aumento</span></div>
-        <div class="cell"><span class="mark">✓</span><h3>Ottimismo cognitivo</h3><div class="ico"><svg viewBox="0 0 48 48" fill="none" stroke="currentColor" stroke-width="2.4" stroke-linecap="round" stroke-linejoin="round"><path d="M14 26a10 10 0 1 1 20 0c0 4-3 6-6 8H20c-3-2-6-4-6-8z"/><path d="M19 25l4 4 7-8"/><path d="M8 40h32M12 40l2-5h20l2 5"/><circle cx="24" cy="37" r="1.5" fill="currentColor"/></svg><p>Davanti alla ciotola "ambigua" <strong>corre</strong>: si aspetta qualcosa di buono. Relazione più sicura.</p></div><span class="tag">stato emotivo positivo</span></div>
+        <div class="cell"><span class="mark">✓</span><h3>Cortisolo stabile</h3><div class="ico"><svg class=""><use href="#tube-si"/></svg><p>Nessun aumento significativo dell'ormone dello stress dopo la lezione.</p></div><span class="tag">nessun aumento</span></div>
+        <div class="cell"><span class="mark">✓</span><h3>Ottimismo cognitivo</h3><div class="ico"><svg class=""><use href="#bowl-si"/></svg><p>Davanti alla ciotola "ambigua" <strong>corre</strong>: si aspetta qualcosa di buono. Relazione più sicura.</p></div><span class="tag">stato emotivo positivo</span></div>
       </div></div>
 
       <div class="row row--3"><div class="cells cells--2">
-        <div class="cell"><span class="mark">✓</span><h3>Risposta ai segnali</h3><div class="ico"><svg viewBox="0 0 48 48" fill="none" stroke="currentColor" stroke-width="2.4" stroke-linecap="round" stroke-linejoin="round"><circle cx="24" cy="27" r="15"/><path d="M24 27l5-8M20 6h8M24 6v6"/><path d="M18 27l4 4 8-8"/></svg><p>Più risposte al <strong>primo</strong> "vieni" e "seduto"; parte prima.</p></div></div>
-        <div class="cell"><span class="mark">✓</span><h3>Meno ripetizioni</h3><div class="ico"><svg viewBox="0 0 48 48" fill="none" stroke="currentColor" stroke-width="2.4" stroke-linecap="round" stroke-linejoin="round"><rect x="10" y="8" width="24" height="32" rx="3"/><path d="M16 18h12M16 24h12M16 30h6"/><path d="M30 34l3 3 6-7"/></svg><p>Meno comandi ripetuti, informazione più chiara, <strong>risultati migliori</strong>.</p></div></div>
+        <div class="cell"><span class="mark">✓</span><h3>Risposta ai segnali</h3><div class="ico"><svg class=""><use href="#clock-si"/></svg><p>Più risposte al <strong>primo</strong> "vieni" e "seduto"; parte prima.</p></div></div>
+        <div class="cell"><span class="mark">✓</span><h3>Meno ripetizioni</h3><div class="ico"><svg class=""><use href="#sheet"/></svg><p>Meno comandi ripetuti, informazione più chiara, <strong>risultati migliori</strong>.</p></div></div>
       </div></div>
     </div>
   </div>
